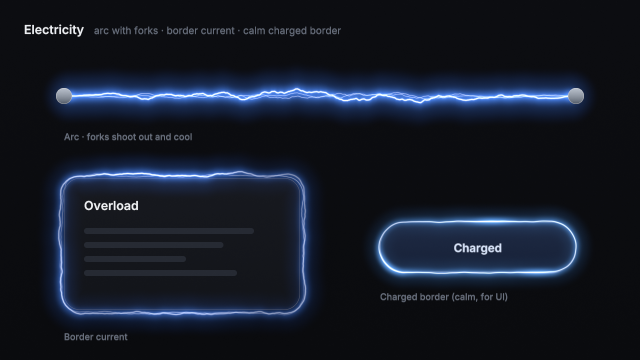
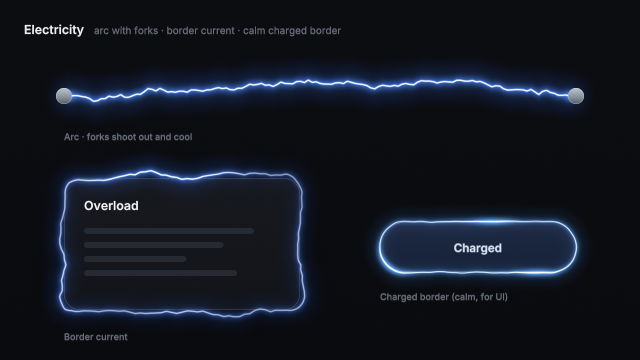
Document the new rune-fx effects and refresh the gallery stills
Notes for each effect, the one-shots and frosted-glass API, and timings with
before/after deltas.

diff --git a/crates/rune-fx/README.md b/crates/rune-fx/README.md
@@ -50,7 +50,20 @@ fx.draw_layer(&mut pass, 0);              // or fx.draw_all(&mut pass, &layers, 
 ```
 
 `FxLayer` builders: `.at(time)`, `.seed(n)`, `.over()` / `.under()`, `.reduced(bool)`,
-`.source(slot, rect)`. `layer.is_animating()` tells the frame loop whether to keep ticking.
+`.source(slot, rect)`, `.opacity(k)` (also the pub field `opacity`, so struct literals need it).
+`layer.is_animating()` tells the frame loop whether to keep ticking.
+
+One-shots overlap: `OneShots<T>::new(cap)` keeps a bounded pool. `trigger(t, data)` starts a new
+instance beside the live ones, and `live(t, life)` yields each `(shot, opacity)`. Draw one layer per
+instance with `.seed(shot.seed).opacity(k)`. When the pool is full the oldest instance fades out
+over `OneShots::FADE` (0.16 s) instead of being cut. Ripples, pings, shockwaves, lightning zaps
+(`ElectricParams::zap: Some(t0)`, lives `ZAP_LIFE`) and sparkle bursts
+(`SparkleParams::burst: Some(t0)`, lives `burst_life()`) all work this way.
+
+Frosted glass (`LensParams::frost > 0`) reads a blurred backdrop. After copying the backdrop, call
+`fx.blur_backdrop(&device, &queue, &mut encoder, &backdrop_view, layer)` for each frosted layer. It
+runs a half-resolution dual-filter pyramid scissored to the layer. Without it the lens falls back
+to an 8-tap spiral blur.
 `Fx::cost()` returns the static cost declaration. `FxStats` reports draws, idle and off-screen
 culls, covered pixels, and whether any drawn layer needs a backdrop.
 
@@ -132,46 +145,53 @@ Lengths are in points, times in seconds.
 
 | Effect | Variants | Key params (default) | Notes |
 |---|---|---|---|
-| **Glow** `GlowParams` | `Soft`, `Neon` (white-hot hairline rim, bloom both sides), `Aura` (3-colour spectrum flowing round the perimeter, inner rim light), `Mask` (text/icon bloom from a `MaskPyramid`) | radius 14, intensity 1, inner 0, occlusion .15, breathe 0, breathe_period 2.6, heat 1, hot .6, aura_speed .12, rim_width .6, reach 4.5 | Bloom = erf edge + inverse-square tail, windowed. `heat` cools the light. Mask glow samples fractional mip levels with tent taps, so an animated radius never steps |
+| **Glow** `GlowParams` | `Soft`, `Neon` (white-hot hairline rim, bloom both sides), `Aura` (3-colour spectrum flowing round the perimeter, inner rim light), `Mask` (text/icon bloom from a `MaskPyramid`) | radius 14, intensity 1, inner 0, occlusion .15, breathe 0, breathe_period 2.6, heat 1, hot .6, aura_speed .12, rim_width .6, reach 4.5 | Bloom = tight Gaussian (0.35 r) + wide Gaussian (1.2 r), so the light is gone by about 2.5 r, through a soft knee (`1 − e^−x`) that keeps the hue instead of clipping to white. `heat` cools the light. Mask glow samples fractional mip levels with tent taps, so an animated radius never steps |
 | **Pulse** `PulseParams` | `Radar`, `Breathe`, `Heartbeat`, `Ping{from,dir,travel}`, `Ripple{at}` | count 3, period 2.4, reach 36, width 1.6, t0, duration .75, repeat 0, lag .16, head_radius 2.6 | Rings follow the shape's SDF. The ping winds up against its travel (Bézier P1 = −0.12), shoots, decelerates to zero velocity, then blooms and cools. Ripple `reach: 0` = auto (farthest corner) |
-| **Electric** `ElectricParams` | `Arc{a,b}`, `Border`, `Charged` (`ElectricParams::charged()`) | amplitude 5, frequency 2.4 cells/100pt, speed 3.2, core_width .6, glow 5, forks .55, flicker .45, strands 2, gap 2, fork_len 20 | Paths are noise-displaced polylines from CPU tables. The halo follows a Gaussian-blurred copy of the path. Forks grow out with a decelerating front (50 ms), then fade from white to the tint to violet |
-| **Fire** `FireParams` | `Top`, `Border`, `Heat` (`FireParams::heat()`), `Embers`; `FireParams::plasma()` | height 54, scale 20, speed 1.5, embers 16, ember_rise 58, ember_size .8, ember_life 1.5, warp 1, sides .32, base_glow .5, swirl 0 | Domain-warped fbm (2+2+4 octaves) scrolling upward through a 3-colour ramp. Embers are CPU particles drawn as short shutter streaks that cool white → orange → red |
+| **Electric** `ElectricParams` | `Arc{a,b}`, `Border`, `Charged` (`ElectricParams::charged()`) | amplitude 5, frequency 2.4 cells/100pt, speed 3.2, core_width .6, glow 5, forks .55, flicker .45, strands 2, gap 2, fork_len 20, zap None | Lightning: a midpoint-displacement bolt (CPU tables) that strikes with a flash, holds, sometimes return-strokes, and re-strikes every ~0.55/speed s, mostly down the same channel. Extra strands are the last two strikes' afterimages (≈70 ms decay). Forks branch off at each strike, shoot out in 35 ms, then cool white → tint → violet and die within 70–200 ms. Narrow halo along a blurred copy of the path. Arc bounds cover the bolt's full reach. `Charged` keeps a calm crawling hairline |
+| **Fire** `FireParams` | `Top`, `Border`, `Heat` (`FireParams::heat()`), `Embers`; `FireParams::plasma()` | height 54, scale 20, speed 1.5, embers 16, ember_rise 58, ember_size .8, ember_life 1.5, warp 1, sides .32, base_glow .5, swirl 0 | Flames: domain-warped fbm (warp grows with height) in height-normalised density, so tongues rise and narrow. Per-column flicker (slow + ~8 Hz). Temperature ramp from a white-yellow base through orange and deep red to a faint smoke veil. Plasma is a thin band hugging the outside of the edge, with ridged filaments that breathe (3 noise evaluations). Embers are flung up, slow under drag (`EMBER_DRAG` 2.4/s) to a buoyant drift, sway, and cool exponentially. Heat haze only distorts above the flame |
 | **Motion blur** `MotionBlurParams` + `MotionSamples` | `Shutter` (exact sub-frame poses), `Directional` (taps along the velocity) | shutter_angle 180, frame_dt 1/60, max_samples 48, px_per_sample 1.25, smooth_shutter true | Sample count = travel px / 1.25, so it's 1 at rest. Raised-cosine shutter weights give soft trail ends. Poses include rotation, scale and opacity |
-| **Distort** `DistortParams` | `HeatHaze`, `Shockwave`, `Lens(LensParams)`, `Crt`, `ChromaSplit` | lens: bevel 14, depth 16, dispersion .14, magnification 1.04, presence 1, frost 0, shadow .35, rim 1.6, union_k 22, morph 0, `second: Option<Shape>` | Lens uses psychopomp's thin-surface optics: a superellipse bevel (power 3) bends light by `tan(θ − asin(sin θ / 1.5))`. Per-channel spread splits colour at the rim, a soft blur covers the squeezed rim, and it adds sky fresnel, a specular line on the lit arc, a counter-line and a drop shadow. `presence` ramps lensing, rim and shadow together, so the glass appears by lensing, not by fading. A second shape smooth-unions into a gooey merge; `morph` lerps toward it |
+| **Distort** `DistortParams` | `HeatHaze`, `Shockwave`, `Lens(LensParams)`, `Crt`, `ChromaSplit` | lens: bevel 14, depth 16, dispersion .14, magnification 1.04, presence 1, frost 0, shadow .35, rim 1.6, union_k 22, morph 0, `second: Option<Shape>` | Lens uses psychopomp's thin-surface optics: a superellipse bevel (power 3) bends light by `tan(θ − asin(sin θ / 1.5))`. Per-channel spread splits colour at the rim, a soft blur covers the squeezed rim, and it adds sky fresnel, a specular line on the lit arc, a counter-line and a drop shadow. `presence` ramps lensing, rim and shadow together, so the glass appears by lensing, not by fading. A second shape smooth-unions into a gooey merge; `morph` lerps toward it. `frost` is Liquid Glass "regular": a wide pyramid blur (σ up to 18 pt), saturation ×(1 + 0.9 k), a compressive sRGB lift that brightens dark backdrops more than light ones, and grain against banding |
 | **Shimmer** `ShimmerParams` | shape or mask (`use_mask`) | period 1.8, band 28, angle .35 rad, intensity .16, pause .3 | Skeleton loaders and "Thinking…" text sheen. The band starts and ends off the shape, so it never cuts |
-| **Sparkles** `SparkleParams` | – | count 9, life 1.5, size 7, margin 10 | 4-point glints with a `sin³` envelope |
+| **Sparkles** `SparkleParams` | continuous or `burst: Some(t0)` | count 6, life 1.5, size 7, margin 10 | Crisp four-point stars (concave superellipse, 1 px AA) with a white-hot centre. Sizes skew small with a few large. Each pops in with overshoot, twinkles at its own 5–9 Hz, spins slowly and shrinks away; continuous stars rest between appearances so only a few are lit. A burst flings every star out once |
 | **Aurora** `AuroraParams` | – | scale 120, speed .25, intensity .5, feather 40 | 3 curtains from CPU tables, plus noise rays |
 | **Grain** `GrainParams` | static or animated (`fps`) | amount .03, fps 0 | Static by default (no temporal shimmer) |
 
 ## Costs
 
-From `demo/fx/timings.md`: Apple M2 Max, shared with other jobs. One layer covers a
+From `demo/fx/timings.md`: Apple M5 Max (shared with other jobs). One layer covers a
 600×400 pt region at 2× (1200×800 = 960k px, smaller where noted). GPU time per draw is the median
 over 10 draws per timestamped pass. "reads" = texture taps plus CPU-table reads per pixel; "noise" =
-gradient-noise evaluations per pixel.
+gradient-noise evaluations per pixel. "was" is the previous effects on the same machine (median of
+three runs each).
 
-| effect | px | reads | noise | backdrop | ms |
-|---|---:|---:|---:|:-:|---:|
-| glow soft / neon | 960k | 0 | 0 | | 0.27 / 0.31 |
-| glow aura | 960k | 0 | 1 | | 0.65 |
-| glow mask (text) | 960k | 13 | 0 | | 0.36 |
-| pulse radar / breathe / heartbeat | 960k | 0 | 0 | | 0.57 / 0.21 / 0.26 |
-| pulse ripple | 544k | 0 | 0 | | 0.12 |
-| electric arc (3 strands) / border / charged | 960k | 37 / 43 / 37 | 0 | | 0.81 / 0.61 / 0.58 |
-| fire top + 16 embers / plasma border / heat | 667k / 960k / 667k | 32 / 0 / 6 | 8 | | 1.73 / 1.59 / 1.16 |
-| distort heat haze | 960k | 1 | 6 | yes | 1.35 |
-| distort shockwave / CRT / chroma split | 960k | 3 / 7 / 3 | 0 | yes | 0.13 / 0.38 / 0.53 |
-| distort lens / lens + frost | 960k | 12 | 0 | yes | 0.31 / 0.53 |
-| shimmer / grain | 960k | 0 | 0 | | 0.48 / 0.68 |
-| sparkles ×9 / aurora | 960k | 18 / 12 | 0 / 3 | | 1.23 / 1.64 |
-| motion shutter (48 poses) / directional (32 taps) | 467k | 48 / 32 | 0 | | 1.61 / 1.54 |
+| effect | px | reads | noise | backdrop | ms | was |
+|---|---:|---:|---:|:-:|---:|---:|
+| glow soft / neon | 960k | 0 | 0 | | 0.10 / 0.11 | 0.10 / 0.12 |
+| glow aura | 960k | 0 | 1 | | 0.21 | 0.21 |
+| glow mask (text) | 960k | 13 | 0 | | 0.23 | 0.22 |
+| pulse radar / breathe / heartbeat | 960k | 0 | 0 | | 0.16 / 0.07 / 0.17 | 0.21 / 0.09 / 0.09 |
+| pulse ripple | 544k | 0 | 0 | | 0.05 | 0.06 |
+| electric arc (3 strands) / border / charged | 960k | 37 / 43 / 37 | 0 | | 0.39 / 0.38 / 0.24 | 0.43 / 0.28 / 0.23 |
+| fire top + 16 embers / plasma border / heat | 644k / 960k / 635k | 32 / 0 / 8 | 8 / 3 / 8 | | 1.32 / 0.51 / 0.74 | 1.19 / 1.00 / 0.78 |
+| distort heat haze | 960k | 1 | 6 | yes | 0.68 | 0.70 |
+| distort shockwave / CRT / chroma split | 960k | 3 / 7 / 3 | 0 | yes | 0.09 / 0.11 / 0.06 | 0.10 / 0.13 / 0.06 |
+| distort lens / lens + frost | 960k | 12 | 0 | yes | 0.21 / 0.40 | 0.21 / 0.44 |
+| shimmer / grain | 960k | 0 | 0 | | 0.09 / 0.08 | 0.08 / 0.08 |
+| sparkles ×9 / aurora | 960k | 18 / 12 | 0 / 3 | | 0.18 / 0.48 | 0.36 / 0.49 |
+| motion shutter (48 poses) / directional (32 taps) | 467k | 48 / 32 | 0 | | 0.66 / 0.50 | 0.64 / 0.60 |
+
+Deltas: the heartbeat doubles (four overlapping beat instances instead of one) and the electric
+border costs about 0.1 ms more (sharper fractal paths keep more of the near-field slope
+correction). Flames cost about 10% more for the height-normalised warp. Plasma halves (3 noise
+evaluations instead of 8) and sparkles halve (stars outside their own radius are skipped). The frost
+pyramid adds a half-resolution blur scissored to the lens (in the lab, lens-frost measures
+0.7 ms per whole frame against 0.5–0.6 ms for the clear lens). Every row stays within the old budgets.
 
 These are worst-case full-region numbers. Real layers hug their node: the gallery's 224 pt card
-with flames and embers covers about 195k px (about 0.5 ms), and a charged 196×50 button border
+with flames and embers covers about 195k px (about 0.4 ms), and a charged 196×50 button border
 about 115k px (about 0.05 ms).
-Timings on the shared machine varied by about 1.5–3× between runs (cheap effects like grain and chroma split
-measured 0.1–0.2 ms in a quieter run), so read them as relative costs. A reserved machine is needed
-for gating.
+Timings on a shared machine vary by about 1.5× between runs, so read them as relative costs. A
+reserved machine is needed for gating.
 
 ## Gaps and next steps
 
@@ -184,7 +204,8 @@ for gating.
 - **Fire** is the heaviest per pixel (8 noise evaluations). Half-resolution evaluation with a
   bilateral upsample would cut it about 3×. Not done.
 - Electricity forks grow and cool but don't sub-branch.
-- Blur and frost in the lens use an 8-tap spiral, not the Jimenez pyramid from research note 12.
+- The frost pyramid needs one `blur_backdrop` call per frosted layer (about 10 per frame fit the
+  uniform slots). The clear lens's rim blur is still an 8-tap spiral.
 - Bind groups are rebuilt every `prepare`. They should be cached per (backdrop, source) pair.
 - No CPU reference renderer or golden tests for the shaders yet; the CPU-table and contract tests
   live in `src/lib.rs`.

diff --git a/demo/fx/timings.md b/demo/fx/timings.md
@@ -1,28 +1,28 @@
 | effect | covered px (2x) | reads/px | noise/px | backdrop | GPU ms per draw (median; 10 draws/pass) |
 |---|---:|---:|---:|:-:|---:|
-| glow soft | 960000 | 0 | 0 |  | 0.266 |
-| glow neon | 960000 | 0 | 0 |  | 0.311 |
-| glow aura | 960000 | 0 | 1 |  | 0.650 |
-| glow mask (text) | 960000 | 13 | 0 |  | 0.359 |
-| pulse radar | 960000 | 0 | 0 |  | 0.570 |
-| pulse breathe | 960000 | 0 | 0 |  | 0.205 |
-| pulse heartbeat | 960000 | 0 | 0 |  | 0.257 |
-| pulse ripple | 543696 | 0 | 0 |  | 0.124 |
-| electric arc (3 strands) | 960000 | 37 | 0 |  | 0.807 |
-| electric border | 960000 | 43 | 0 |  | 0.609 |
-| electric charged | 960000 | 37 | 0 |  | 0.577 |
-| fire top + 16 embers | 667200 | 32 | 8 |  | 1.728 |
-| fire plasma border | 960000 | 0 | 8 |  | 1.587 |
-| fire heat (UI) | 667200 | 6 | 8 |  | 1.158 |
-| distort heat haze | 960000 | 1 | 6 | yes | 1.350 |
-| distort shockwave | 960000 | 3 | 0 | yes | 0.131 |
-| distort lens | 960000 | 12 | 0 | yes | 0.306 |
-| distort lens + frost | 960000 | 12 | 0 | yes | 0.527 |
-| distort CRT | 960000 | 7 | 0 | yes | 0.377 |
-| distort chroma split | 960000 | 3 | 0 | yes | 0.534 |
-| shimmer (shape) | 960000 | 0 | 0 |  | 0.475 |
-| sparkles x9 | 960000 | 18 | 0 |  | 1.232 |
-| aurora | 960000 | 12 | 3 |  | 1.636 |
-| grain | 960000 | 0 | 0 |  | 0.684 |
-| motion shutter (fling peak) | 467190 | 48 | 0 |  | 1.614 |
-| motion directional | 468234 | 32 | 0 |  | 1.538 |
+| glow soft | 960000 | 0 | 0 |  | 0.195 |
+| glow neon | 960000 | 0 | 0 |  | 0.110 |
+| glow aura | 960000 | 0 | 1 |  | 0.199 |
+| glow mask (text) | 960000 | 13 | 0 |  | 0.213 |
+| pulse radar | 960000 | 0 | 0 |  | 0.146 |
+| pulse breathe | 960000 | 0 | 0 |  | 0.072 |
+| pulse heartbeat | 960000 | 0 | 0 |  | 0.172 |
+| pulse ripple | 543696 | 0 | 0 |  | 0.050 |
+| electric arc (3 strands) | 960000 | 37 | 0 |  | 0.359 |
+| electric border | 960000 | 43 | 0 |  | 0.348 |
+| electric charged | 960000 | 37 | 0 |  | 0.257 |
+| fire top + 16 embers | 644480 | 32 | 8 |  | 1.040 |
+| fire plasma border | 960000 | 0 | 3 |  | 0.477 |
+| fire heat (UI) | 634752 | 8 | 8 |  | 0.665 |
+| distort heat haze | 960000 | 1 | 6 | yes | 0.611 |
+| distort shockwave | 960000 | 3 | 0 | yes | 0.081 |
+| distort lens | 960000 | 12 | 0 | yes | 0.209 |
+| distort lens + frost | 960000 | 12 | 0 | yes | 0.351 |
+| distort CRT | 960000 | 7 | 0 | yes | 0.101 |
+| distort chroma split | 960000 | 3 | 0 | yes | 0.062 |
+| shimmer (shape) | 960000 | 0 | 0 |  | 0.078 |
+| sparkles x9 | 960000 | 12 | 0 |  | 0.163 |
+| aurora | 960000 | 12 | 3 |  | 0.370 |
+| grain | 960000 | 0 | 0 |  | 0.075 |
+| motion shutter (fling peak) | 467190 | 48 | 0 |  | 0.635 |
+| motion directional | 468234 | 32 | 0 |  | 0.462 |
